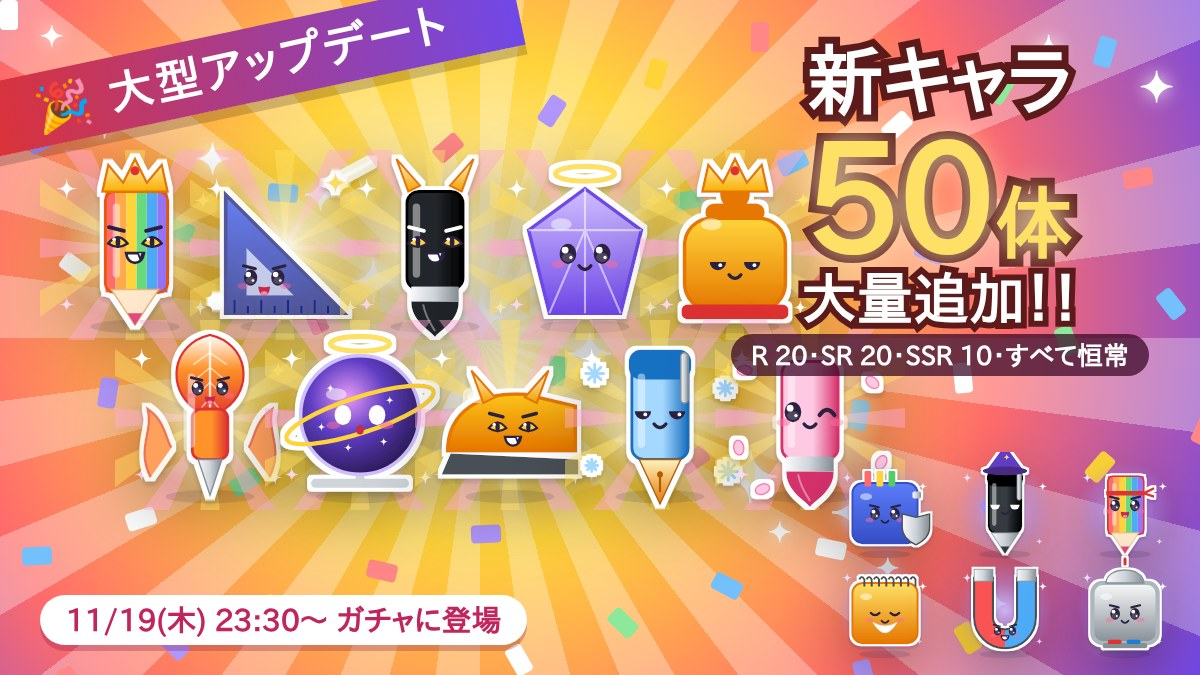
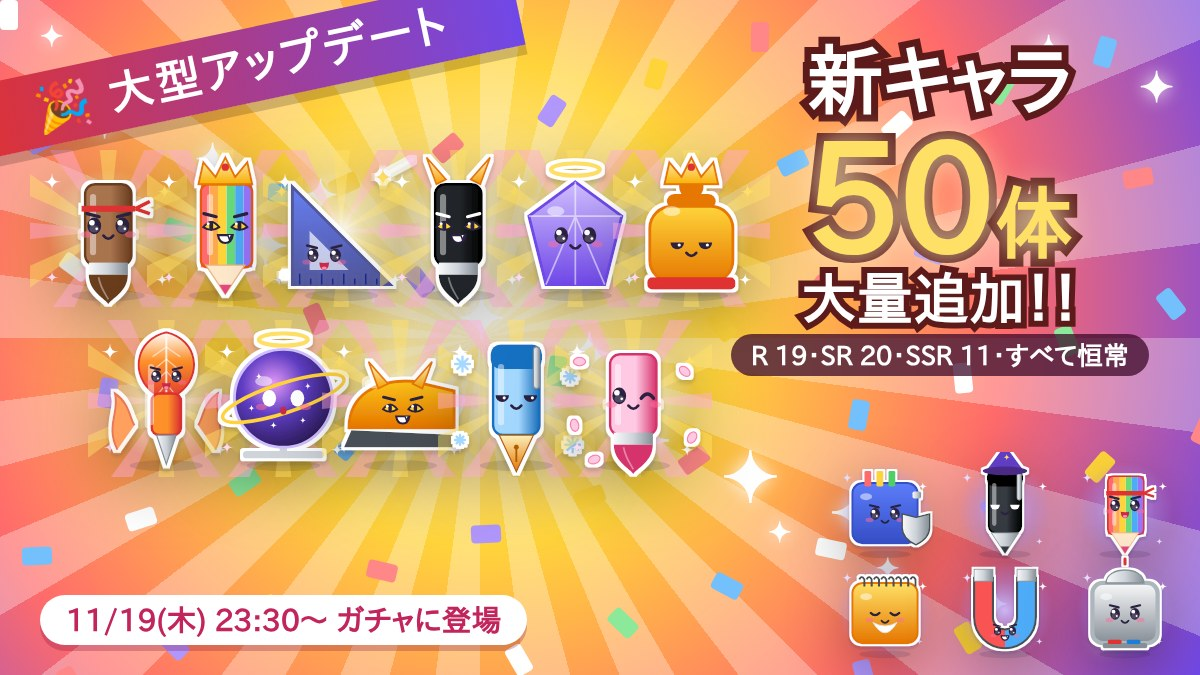
筆の剣士を SSR に、わざを疾風斬りに (まとめバナーも作り直し)
Claude-Session: https://claude.ai/code/session_0131LAB3VBSEDYy6z21kYLHB

Changed region(s): [[0.0308, 0.2178, 0.7708, 0.8089], [0.8017, 0.4978, 0.8325, 0.56], [0.7092, 0.4667, 0.74, 0.4978]]

diff --git a/tools/make_banners.js b/tools/make_banners.js
@@ -121,7 +121,8 @@ function awardHtml(q, rank) {
 function bulkHtml(g) {
   const n = (r) => g.ids.filter((id) => cards.CARDS[id].rarity === r).length;
   const ssrN = n('SSR'), pos = [];
-  for (let i = 0; i < ssrN; i++) { const row = i < 5 ? 0 : 1, col = i % 5; pos.push([40 + col * 150 + row * 75, 150 + row * 170, 190]); }
+  const per = Math.ceil(ssrN / 2), gap = Math.min(150, 700 / per), size = Math.min(190, gap + 40);
+  for (let i = 0; i < ssrN; i++) { const row = i < per ? 0 : 1, col = row ? i - per : i; pos.push([30 + col * gap + row * gap / 2, 150 + row * 170, size]); }
   for (let i = 0; i < 6; i++) pos.push([830 + (i % 3) * 120, 452 + Math.floor(i / 3) * 100, 110]);
   return `<div class="bn" style="background:radial-gradient(circle at 40% 45%,#fff9db,#ffd43b 30%,#ff6b6b 65%,#7048e8 100%);--r1:rgba(255,255,255,.55);--r2:transparent">
     <div class="rays" style="left:40%"></div>${confetti(56, ['#fff', '#ffd43b', '#74c0fc', '#b197fc', '#8ce99a', '#ff8787'])}${sparks(18)}

diff --git a/cards.js b/cards.js
@@ -73,7 +73,7 @@ const CARD_LIST = [
   ['inkpad', 'スタンプ台ちゃん', '🟣', 'R', 'wrap', 77, 20, 13, 11, 'heal'],
   ['clipboard', 'クリップボード番長', '📋', 'R', 'heavy', 72, 14, 12, 7, 'barrier'],
   ['highlighter', '蛍光ペンガール', '🖊', 'R', 'cut', 54, 17, 9, 14, 'drain'],
-  ['brush', '筆の剣士', '🖌', 'R', 'cut', 63, 18, 10, 12, 'pierce'],
+  ['brush', '筆の剣士', '🖌', 'SSR', 'cut', 63, 18, 10, 12, 'sweep'], // R から SSR に変更、わざは疾風斬り (ハサミ丸と同じ)
   ['palette', 'パレット画伯', '🎨', 'R', 'wrap', 79, 19, 14, 12, 'heal'],
   ['calc', '電卓ロボ', '🧮', 'R', 'heavy', 67, 13, 12, 5, 'pierce'],
   ['notecard', '単語カード', '🗂', 'R', 'wrap', 79, 18, 12, 12, 'drain'],
